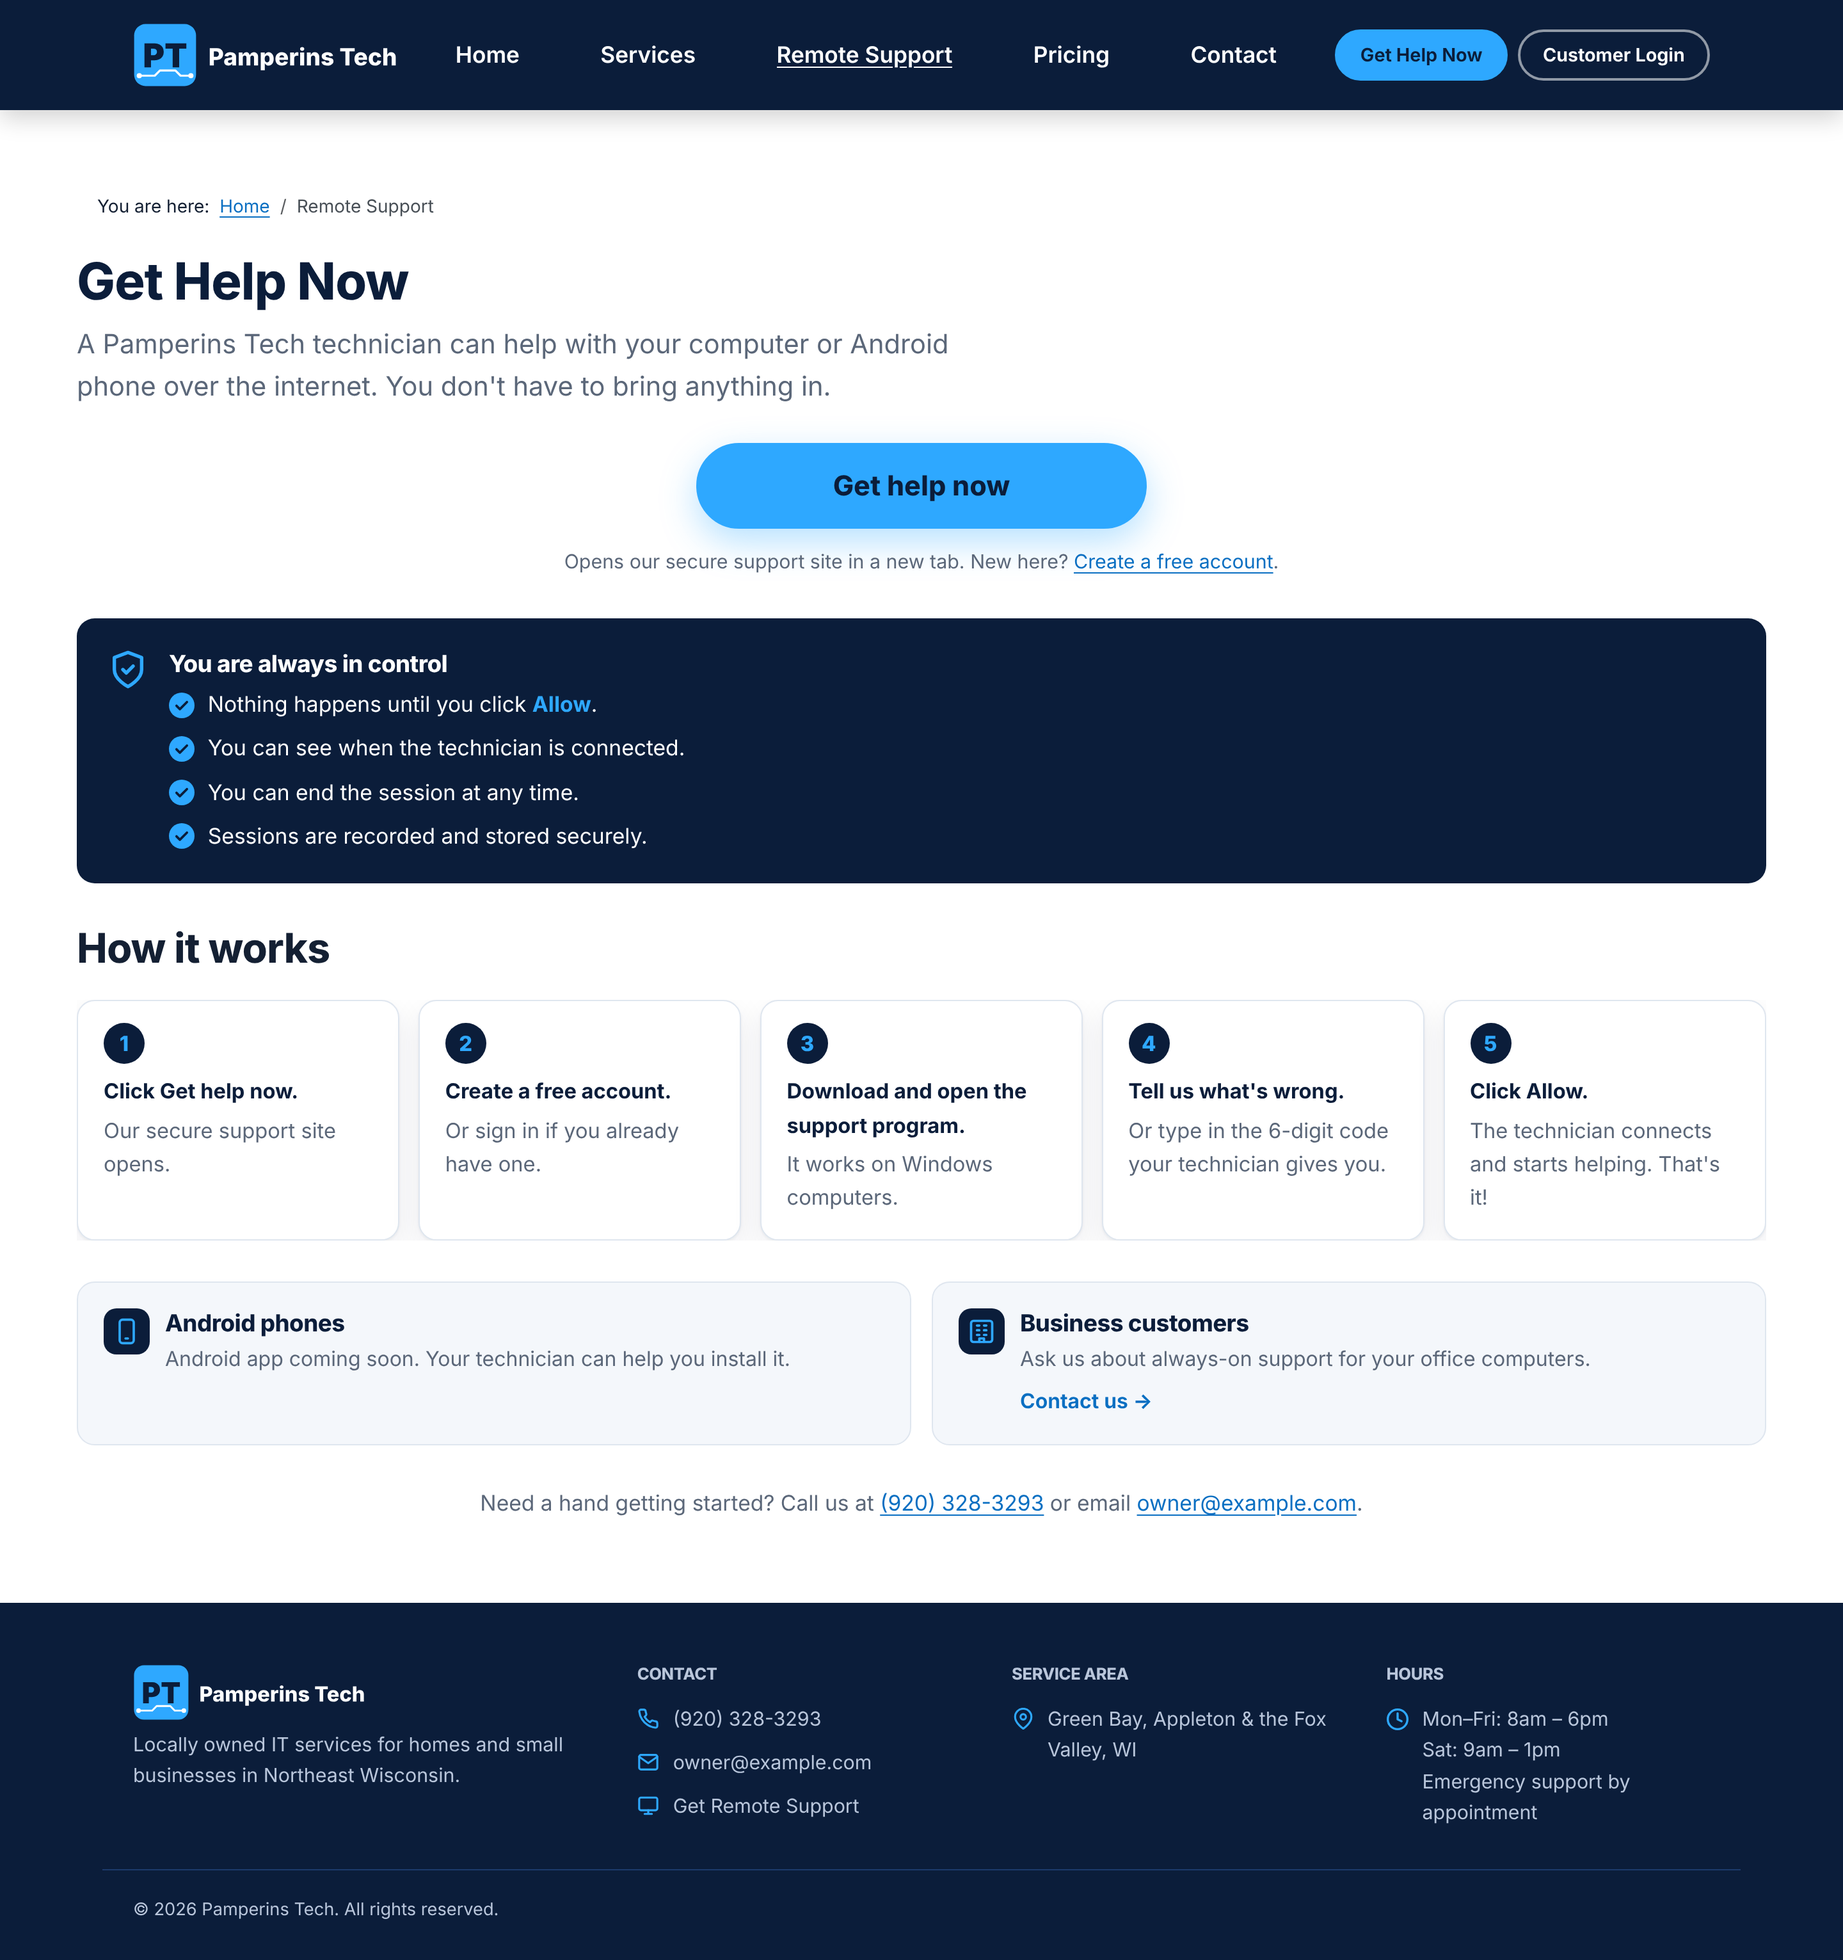
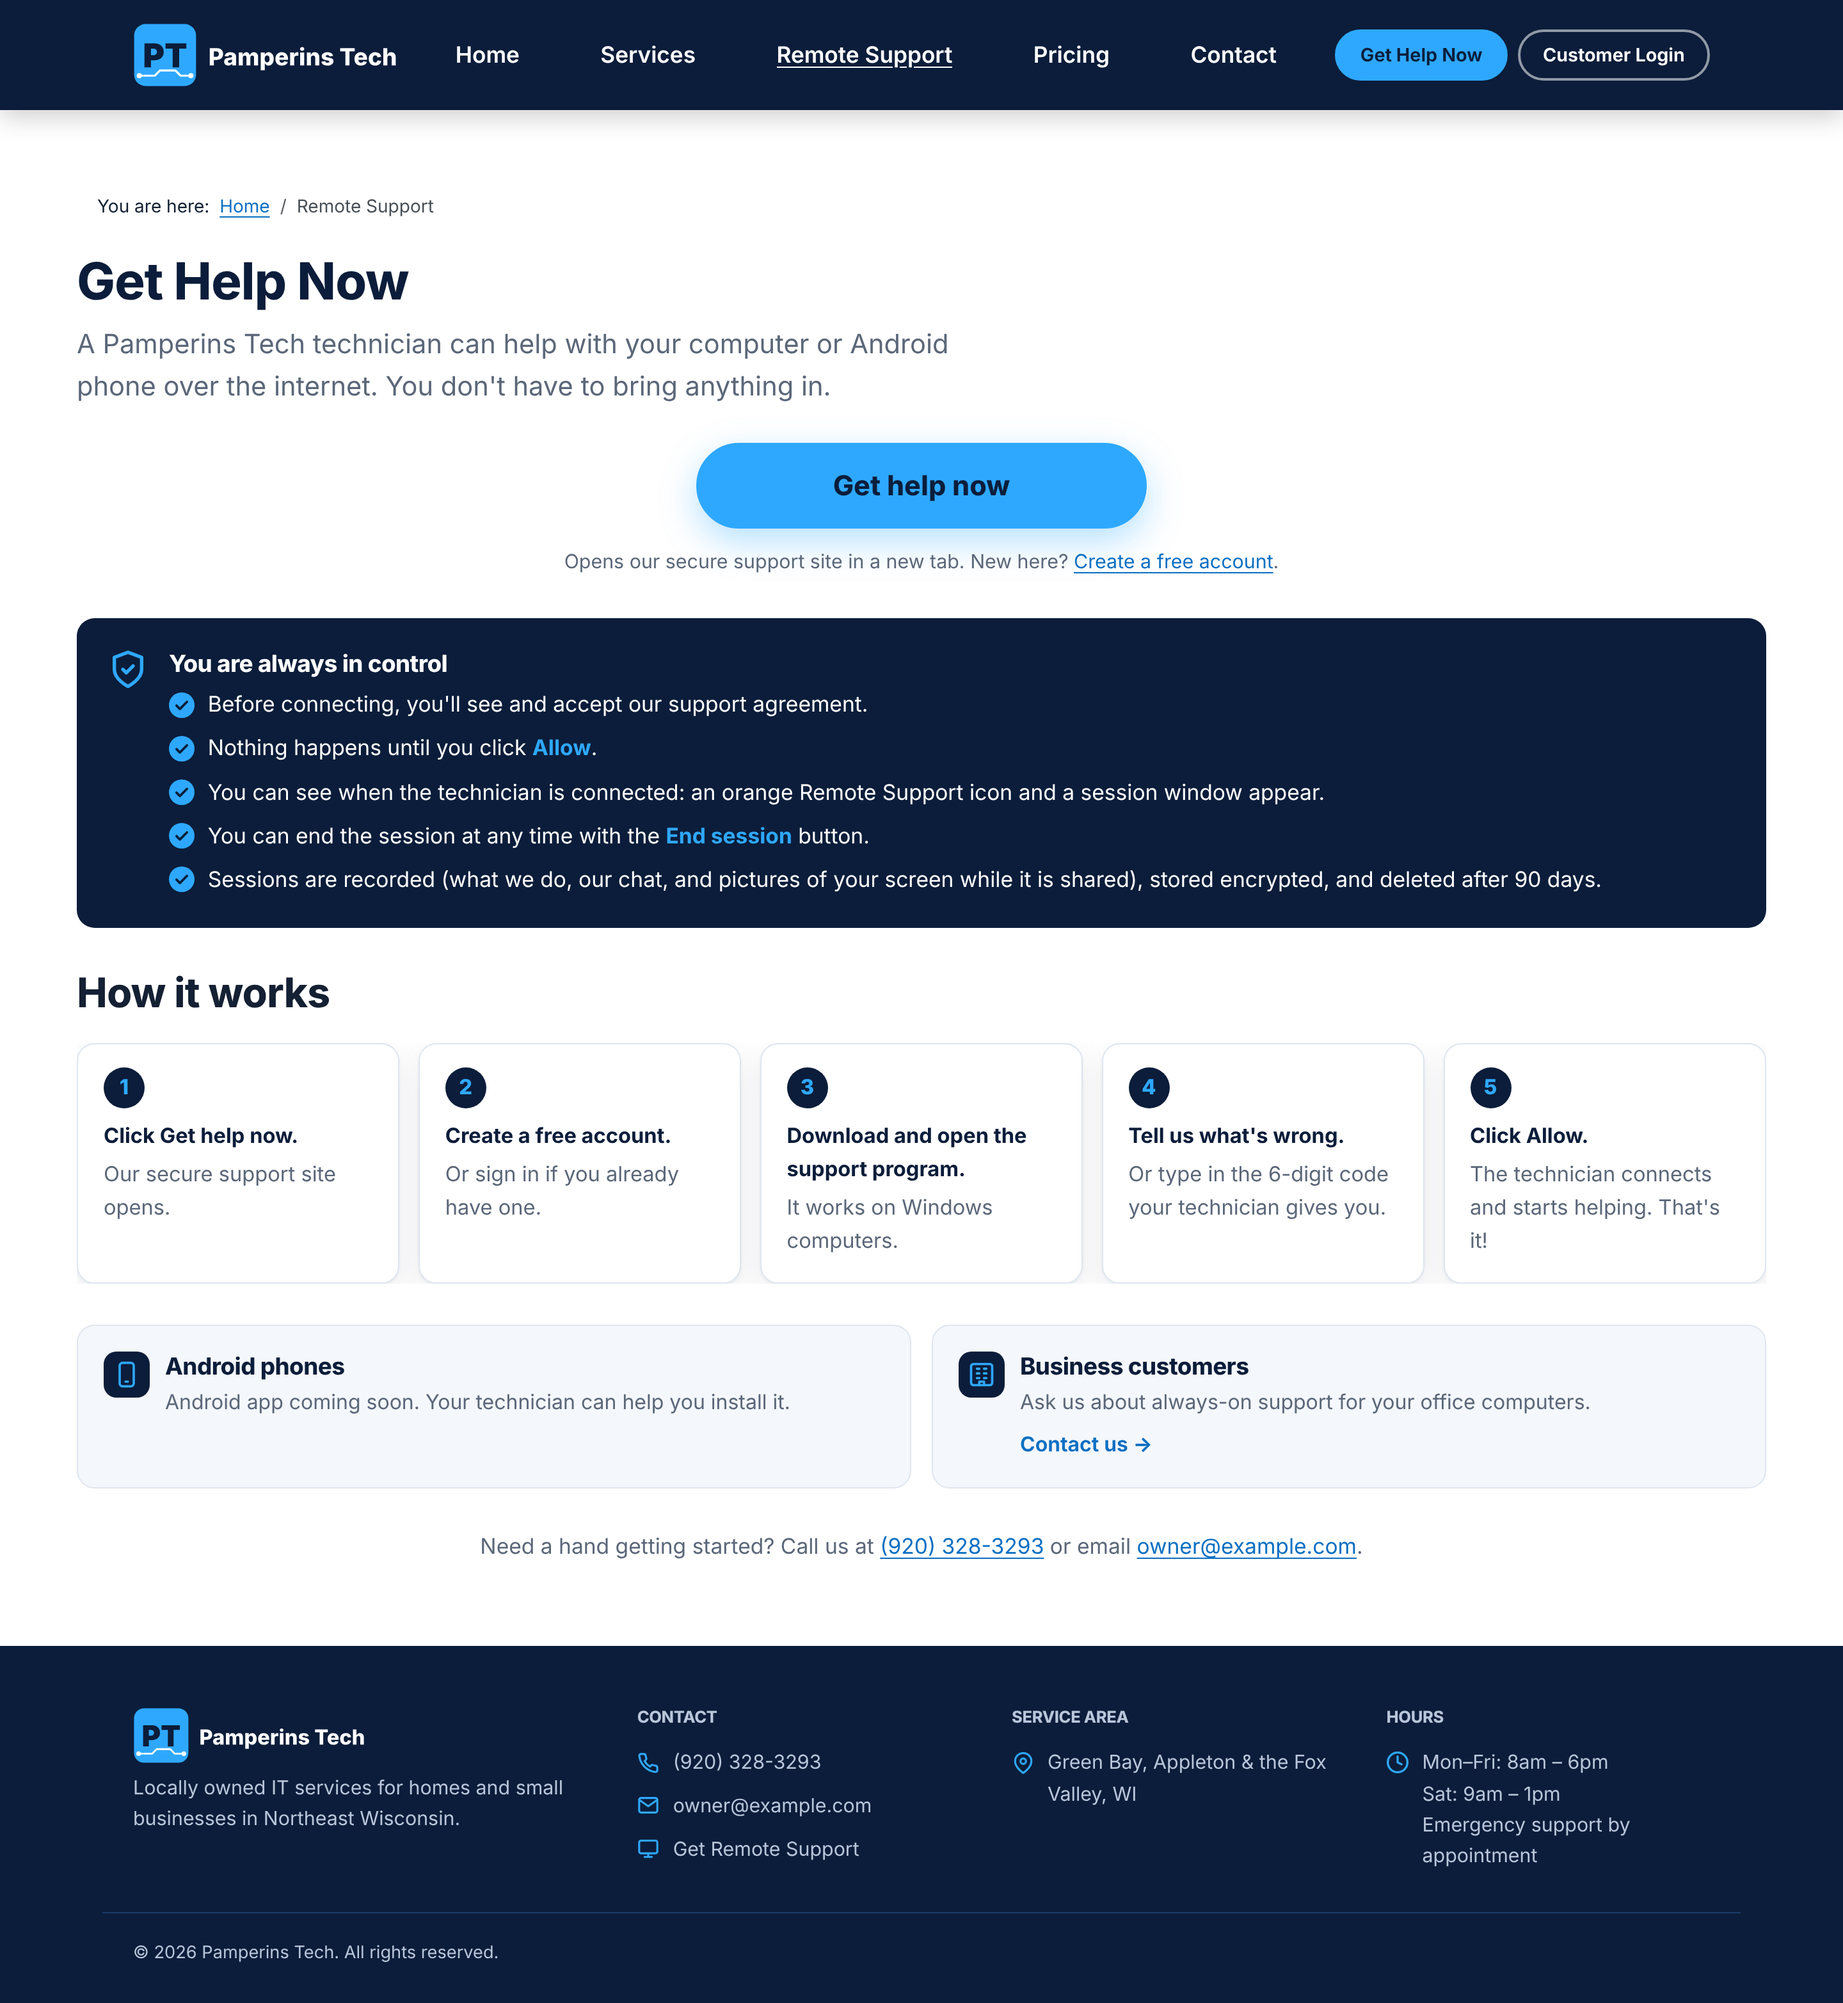
Get Help Now page: wording confirmed with the support server
Per the rsup (support.pamperins.com) side, checked on the live server:
- add "Before connecting, you'll see and accept our support agreement."
- say what the client sees when connected (orange Remote Support icon +
  session window) and the End session button
- recordings: what is recorded, stored encrypted, deleted after 90 days
- /get-help and ?tab=signup are the permanent addresses (unchanged);
  Windows only (unchanged)

Claude-Session: https://claude.ai/code/session_011bZXuCTh9Sd4aD5LLeh25n

diff --git a/content/remote-support.html b/content/remote-support.html
@@ -7,10 +7,11 @@
 <div class="pt-callout pt-callout--secure">
 <h3>You are always in control</h3>
 <ul class="pt-checklist">
+<li>Before connecting, you'll see and accept our support agreement.</li>
 <li>Nothing happens until you click <strong>Allow</strong>.</li>
-<li>You can see when the technician is connected.</li>
-<li>You can end the session at any time.</li>
-<li>Sessions are recorded and stored securely.</li>
+<li>You can see when the technician is connected: an orange Remote Support icon and a session window appear.</li>
+<li>You can end the session at any time with the <strong>End session</strong> button.</li>
+<li>Sessions are recorded (what we do, our chat, and pictures of your screen while it is shared), stored encrypted, and deleted after 90 days.</li>
 </ul>
 </div>
 <h2>How it works</h2>
